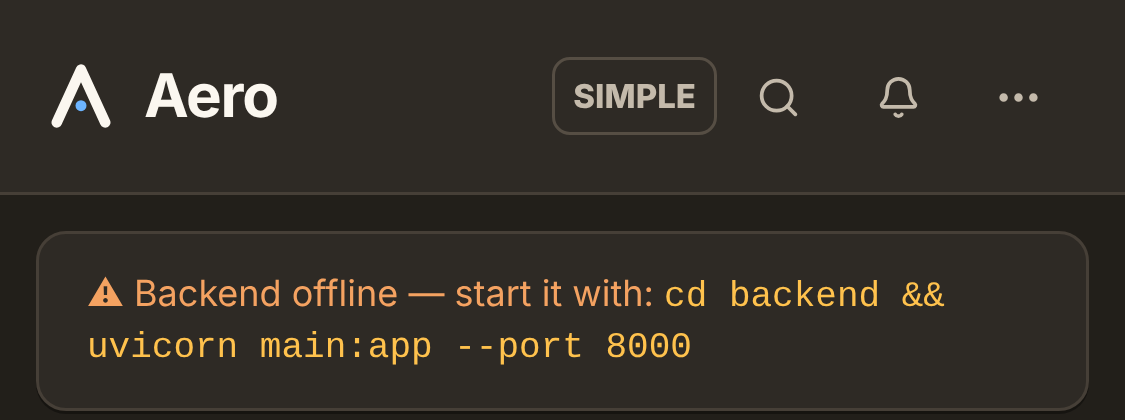
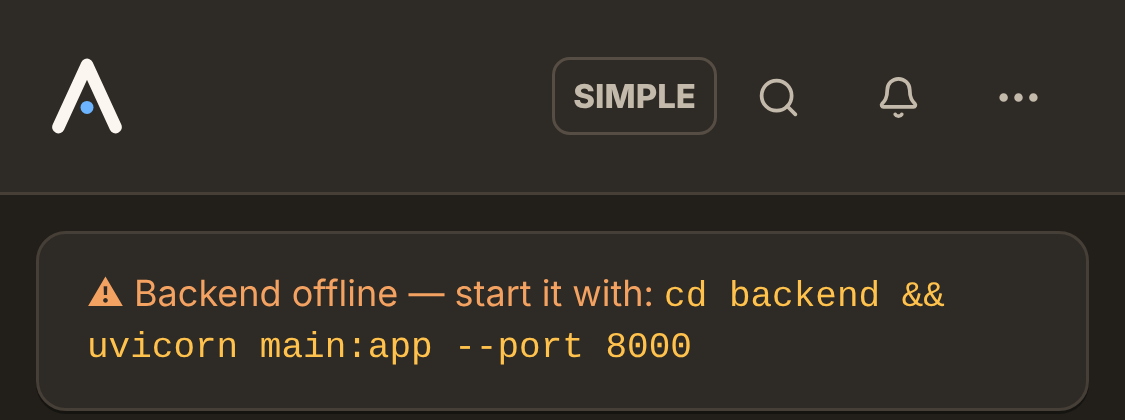
Header shows just the Aero mark
Claude-Session: https://claude.ai/code/session_01LzzAbpfuyEGPdj6Zs6mdvA

Changed region(s): [[0.0311, 0.1238, 0.2489, 0.3095]]

diff --git a/frontend/components/Header.tsx b/frontend/components/Header.tsx
@@ -79,12 +79,10 @@ export default function Header() {
 
   return (
     <header ref={ref} className="flex flex-wrap sm:flex-nowrap items-center gap-x-3 sm:gap-x-4 lg:gap-x-6 gap-y-1 px-4 py-2 sm:py-3 safe-top border-b border-edge bg-panel sticky top-0 z-40">
-      <div className="flex items-center gap-2.5 shrink-0">
-        <AeroMark size={22} className="text-txt" />
-        <h1 className="font-display text-[20px] sm:text-[22px] leading-none text-txt whitespace-nowrap">
-          Aero
-        </h1>
-      </div>
+      <h1 className="flex items-center shrink-0 h-10 text-txt">
+        <AeroMark size={26} />
+        <span className="sr-only">Aero</span>
+      </h1>
 
       <div className="order-last sm:order-none basis-full sm:basis-auto sm:flex-1 min-w-0 flex items-center gap-4 overflow-x-auto [scrollbar-width:none]" data-noswipe>
         {Object.entries(prices).map(([sym, price]) => {
